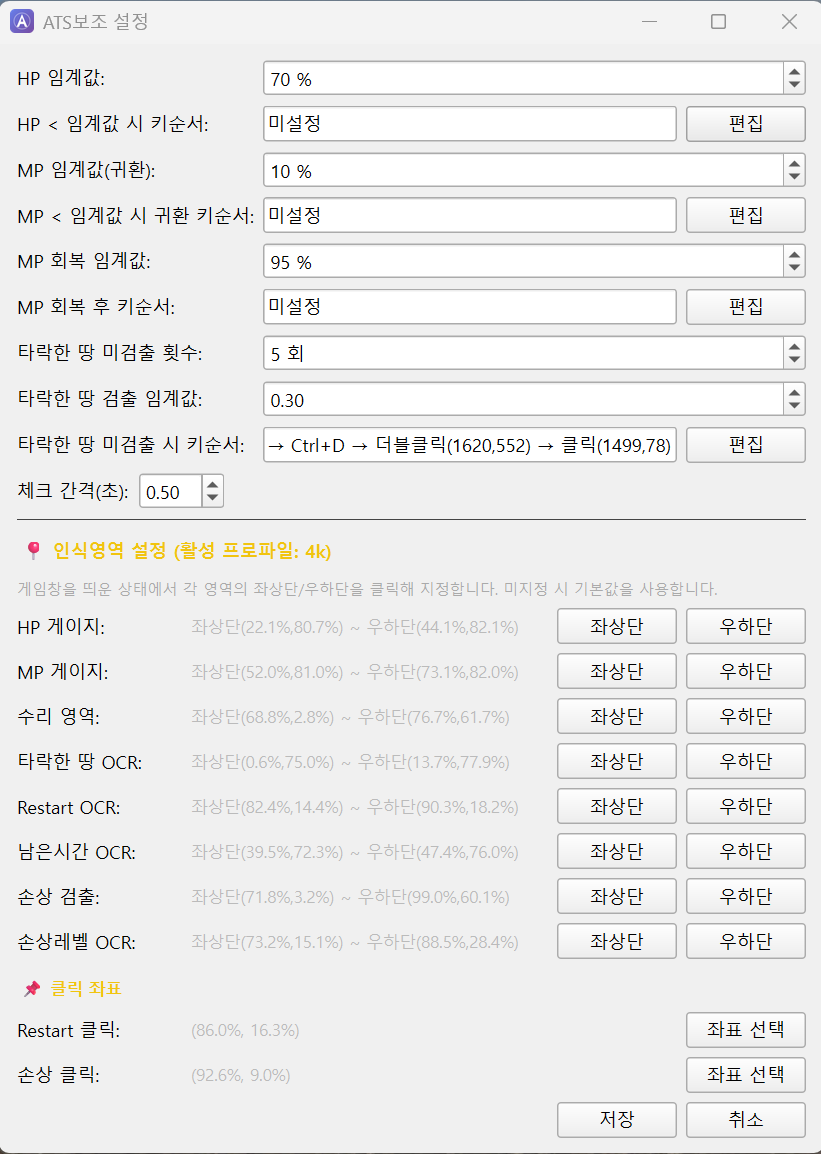
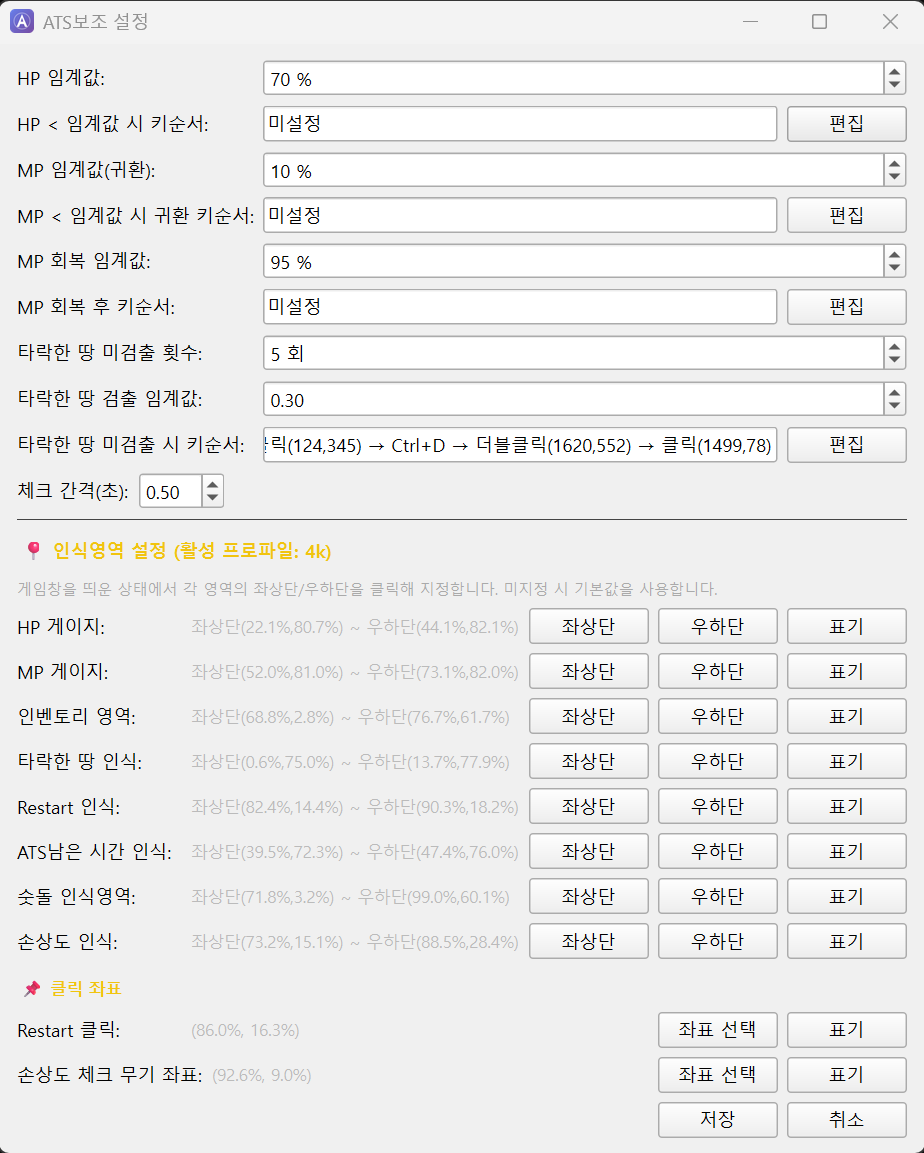
manual: ATS 설정창 이미지 갱신 (표기 버튼 포함) + 표기 동작 설명 추가

diff --git a/manual/index.html b/manual/index.html
@@ -279,7 +279,10 @@
 <h3>⚙ ATS 설정창</h3>
 <div class="img-wrap">
     <img src="img/ats_settings_v2.png" alt="ATS 설정창">
-    <div class="img-caption">ATS 설정 — 임계값/키순서 + 인식영역 picker (활성 프로파일별)</div>
+    <div class="img-caption">ATS 설정 — 임계값/키순서 + 인식영역 좌표 지정 (활성 프로파일별 자동 분기)</div>
+</div>
+<div class="info">
+    <b>📍 표기 버튼:</b> 각 영역/좌표 우측의 <b>[표기]</b> 버튼을 누르면 내가 설정한 좌표가 게임창에 빨간 사각형(영역) 또는 빨간 십자선(클릭 좌표)으로 <b>3초간</b> 표시됩니다. 좌표가 의도한 위치에 잘 찍혔는지 시각적으로 확인할 수 있습니다.
 </div>
 <table>
     <tr><th>항목</th><th>설명</th></tr>
